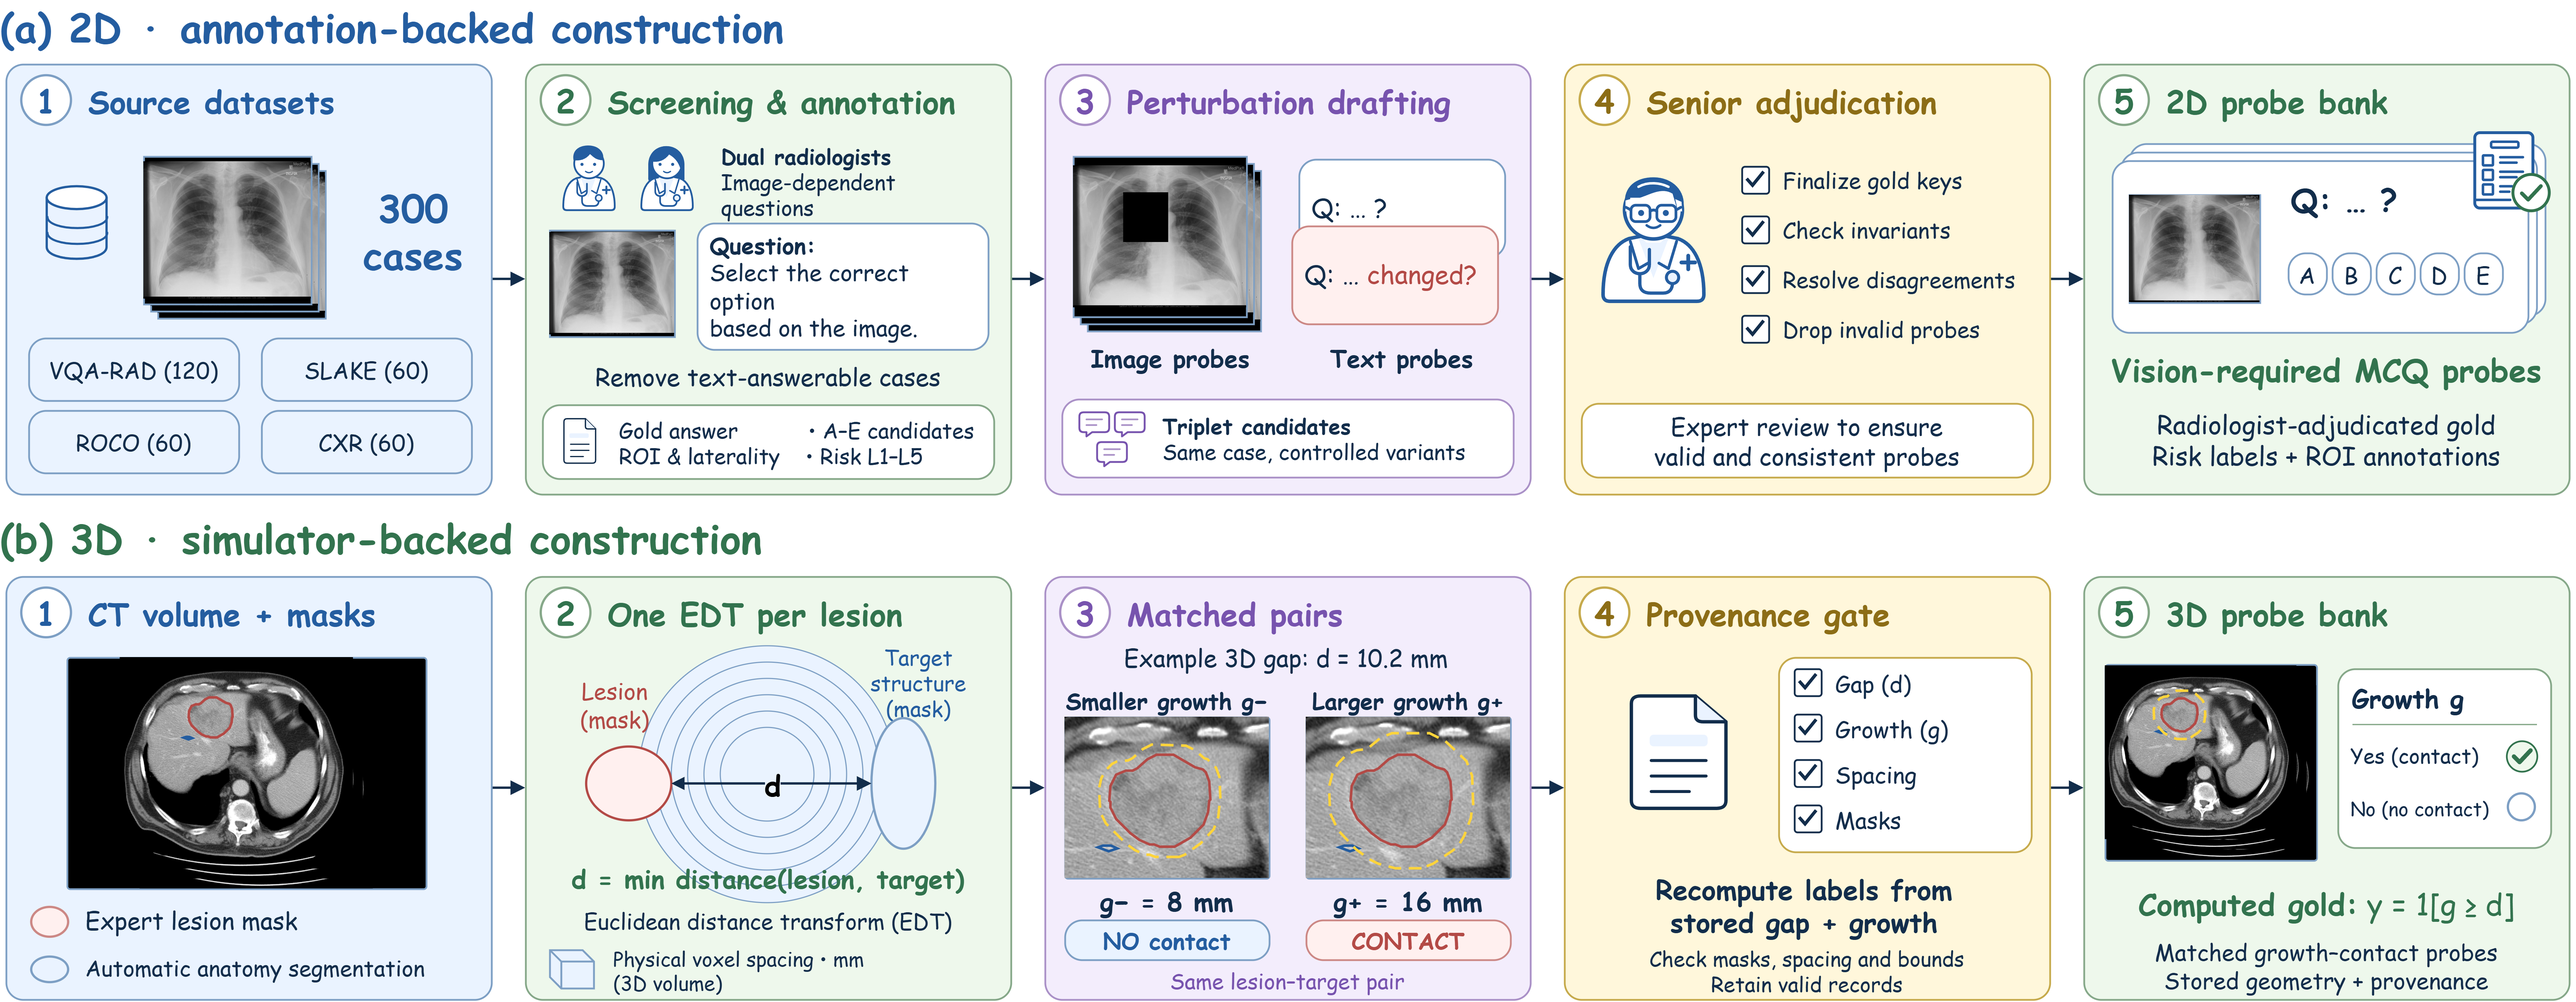
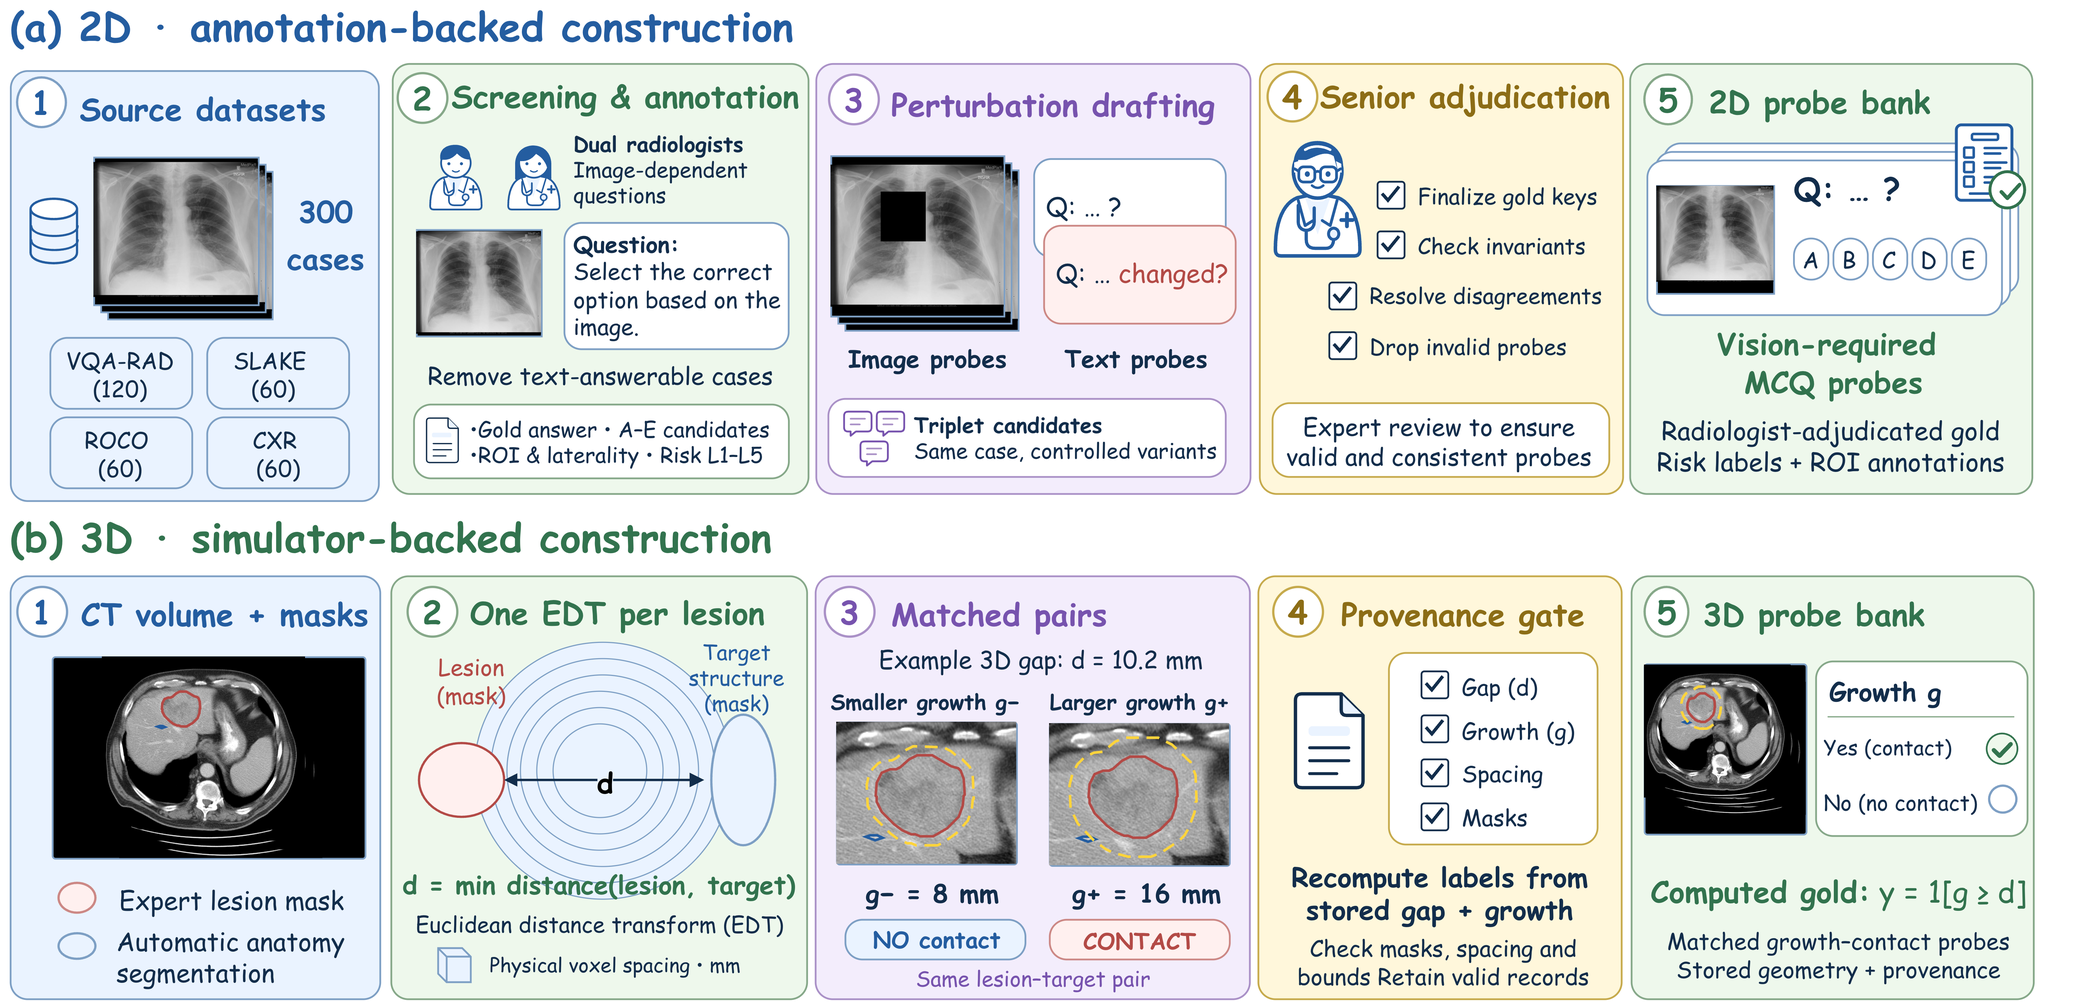
Updates from Overleaf

Changed region(s): [[0.0, 0.0, 1.0, 1.0]]

diff --git a/journal/medvigil_submission_body.tex b/journal/medvigil_submission_body.tex
@@ -26,15 +26,13 @@ Mayo Clinic, Phoenix, AZ, USA.}
 %% ===========================================================================
 \begin{abstract}
 Medical vision--language models are evaluated on intact image--question
-pairs, but safe clinical use also requires a model to recognise when the
-evidence for an answer has failed. We formalise this requirement as an
+pairs, but safe clinical use requires recognising when evidence has failed. We formalise this requirement as an
 \emph{evidence contract} and measure its violation as \emph{silent failure},
-a fluent non-refusal answer given under perturbed evidence. A 300-case suite
+a fluent non-refusal answer under perturbed evidence. A 300-case suite
 authored by four board-certified radiologists shows the phenomenon in 2D
 across sixteen models. Capability and safe failure diverge, silent failure
 rises with clinical risk tier, and a radiologist blinded to construction
-leads the composite score by 14.1 points. Annotated labels limit such a suite
-to a few hundred items, and they cannot rule out pretraining overlap. We
+leads the composite score by 14.1 points. Annotated labels limit the suite to a few hundred items and cannot rule out pretraining overlap. We
 remove both limits by computing probe answers instead of annotating them.
 Whether a lesion would contact a critical structure after isotropic growth
 follows from one distance transform over an expert lesion mask and an
@@ -42,8 +40,7 @@ automatic anatomy segmentation. This yields 9{,}484 verifiable probes over
 587 CT volumes at no annotation cost, each asking about a state that never
 occurred. The silent-failure finding replicates and worsens. Dataset
 recognition measures 0.0--5.0\% against a live positive control. The failure
-is localised: models perceive the annotation and perform the underlying
-numeric comparison, but they cannot estimate distance from the image, on anatomy or on a
+is localised: models perceive the annotation and perform the numeric comparison, but they cannot estimate distance from the image, on anatomy or on a
 blank synthetic background, and their decision variable ranks the growth number in the question at AUROC up
 to 0.96 while ranking the computed label at 0.47--0.52. Two metrics
 validated in 2D do not survive the change of modality, and we report the
@@ -127,8 +124,7 @@ the perturbations postdate those corpora, but that is an argument and not a
 measurement. Both share a root cause: the labels are annotated, so probes
 are expensive and tied to public images.
 
-This article removes that root cause where it can be removed. Given an
-expert lesion mask and an automatic anatomy segmentation, the question
+Given an expert lesion mask and an automatic anatomy segmentation, the question
 \emph{``if this lesion grew $d$~mm in every direction, would it contact the
 aorta?''} is decided by whether the surface gap is at most $d$. One Euclidean
 distance transform answers every such query for that lesion.
@@ -219,9 +215,11 @@ Chance & 20\% & 50\% (balanced) \\
 \end{tabular}
 \end{table}
 
-\begin{figure}[!tb]
+\begin{figure*}[!tb]
   \centering
-  \includegraphics[width=\linewidth]{journal/figures/fig2.png}
+  \includegraphics[width=0.8\textwidth,
+  trim={3.75bp 0 5bp 0},
+  clip]{journal/figures/fig2.png}
   \caption{\textbf{Two constructions, one evaluation.} (a)~2D,
   annotation-backed: two radiologists annotate each of 300 cases and jointly
   author its text-side perturbations, and a senior radiologist enforces the
@@ -231,7 +229,7 @@ Chance & 20\% & 50\% (balanced) \\
   $g^{+}=16$~mm), and a provenance gate recomputes every label
   $y=\mathbf{1}[g\ge d]$.}
   \label{fig:pipeline}
-\end{figure}
+\end{figure*}
 
 The 2D suite contains 300 cases from VQA-RAD~\cite{lau2018vqarad},
 SLAKE~\cite{liu2021slake}, ROCO~\cite{pelka2018roco}, and chest radiograph
@@ -254,7 +252,7 @@ the ROI box. A senior radiologist adjudicates disagreements and rejects any pert
 that violates a construction invariant: a paraphrase must preserve the gold,
 a negation must invert it, a trap must contradict the image, and an
 ROI-masked variant must remove the answer-relevant region. Failed
-perturbations are dropped, not patched. A fourth radiologist from a separate
+perturbations are excluded. A fourth radiologist from a separate
 institution, blinded to construction, answers every probe as the human
 reference.
 
@@ -378,7 +376,7 @@ in what surrounds the outlines.
 
 \begin{figure*}[!t]
   \centering
-  \includegraphics[width=0.75\textwidth]{journal/figures/fig3.png}
+  \includegraphics[width=\textwidth]{journal/figures/fig3.png}
   \caption{\textbf{One evaluation for both suites.} (a)~Matched 2D and 3D
   cases with valid evidence and a well-posed premise. (b)~Controlled
   interventions on the image (full, ROI-masked, ROI-only, blank) and on the

diff --git a/journal/medvigil_submission.tex b/journal/medvigil_submission.tex
@@ -7,27 +7,21 @@
 %% Section order follows TMI convention:
 %%   I Introduction · II Materials and Methods · III Results · IV Discussion
 %%   V Conclusion · References
-
 %% TMI template: ieeecolor.cls + tmi.sty + LOGO-tmi-web.eps, as distributed in
 %% the journal's TEX.zip (https://www.embs.org/tmi/authors-instructions/).
 %% Package order follows the template's own sample file.
 \documentclass[journal,twoside,web]{ieeecolor}
 \usepackage{tmi}
 \InputIfFileExists{medvigil_preamble.tex}{}{\input{journal/medvigil_preamble.tex}}
-
 %% ieeecolor's single-column caption path switches to the heading colour without a group; keep it local.
 \makeatletter
 \def\fnum@figure{{\color{subsectioncolor}\sf Fig.~\thefigure}}
 \def\fnum@table{{\color{subsectioncolor}\sf TABLE~\thetable}}
 \makeatother
-
 %% Version-specific front matter
-\newcommand{\versionthanks}{\thanks{Manuscript received \todo{date}. \todo{funding}}}
+\newcommand{\versionthanks}{}
 \newcommand{\runninghead}{\journalname}
-
 \begin{document}
-
 %% Trimmed body for the page-limited submission.
 \InputIfFileExists{medvigil_submission_body.tex}{}{\input{journal/medvigil_submission_body.tex}}
-
 \end{document}
